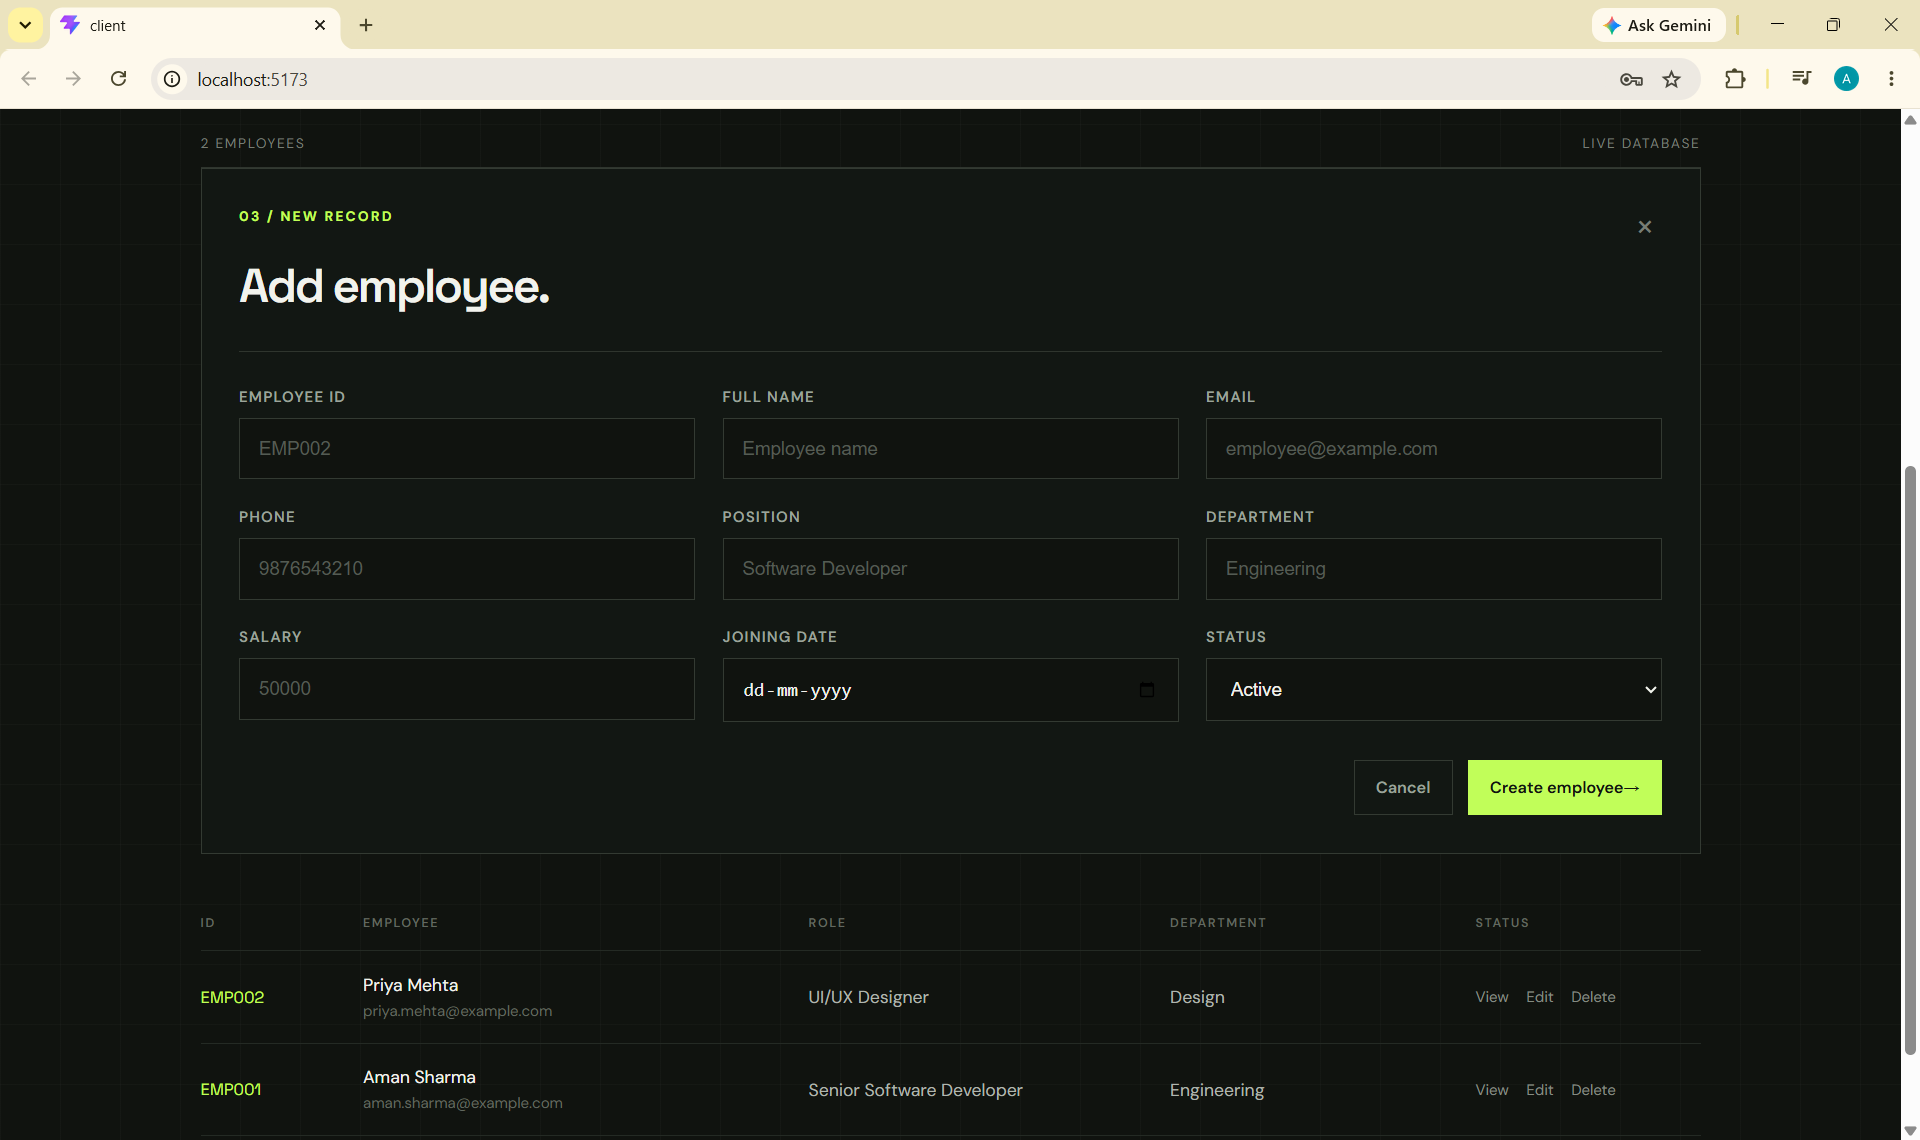
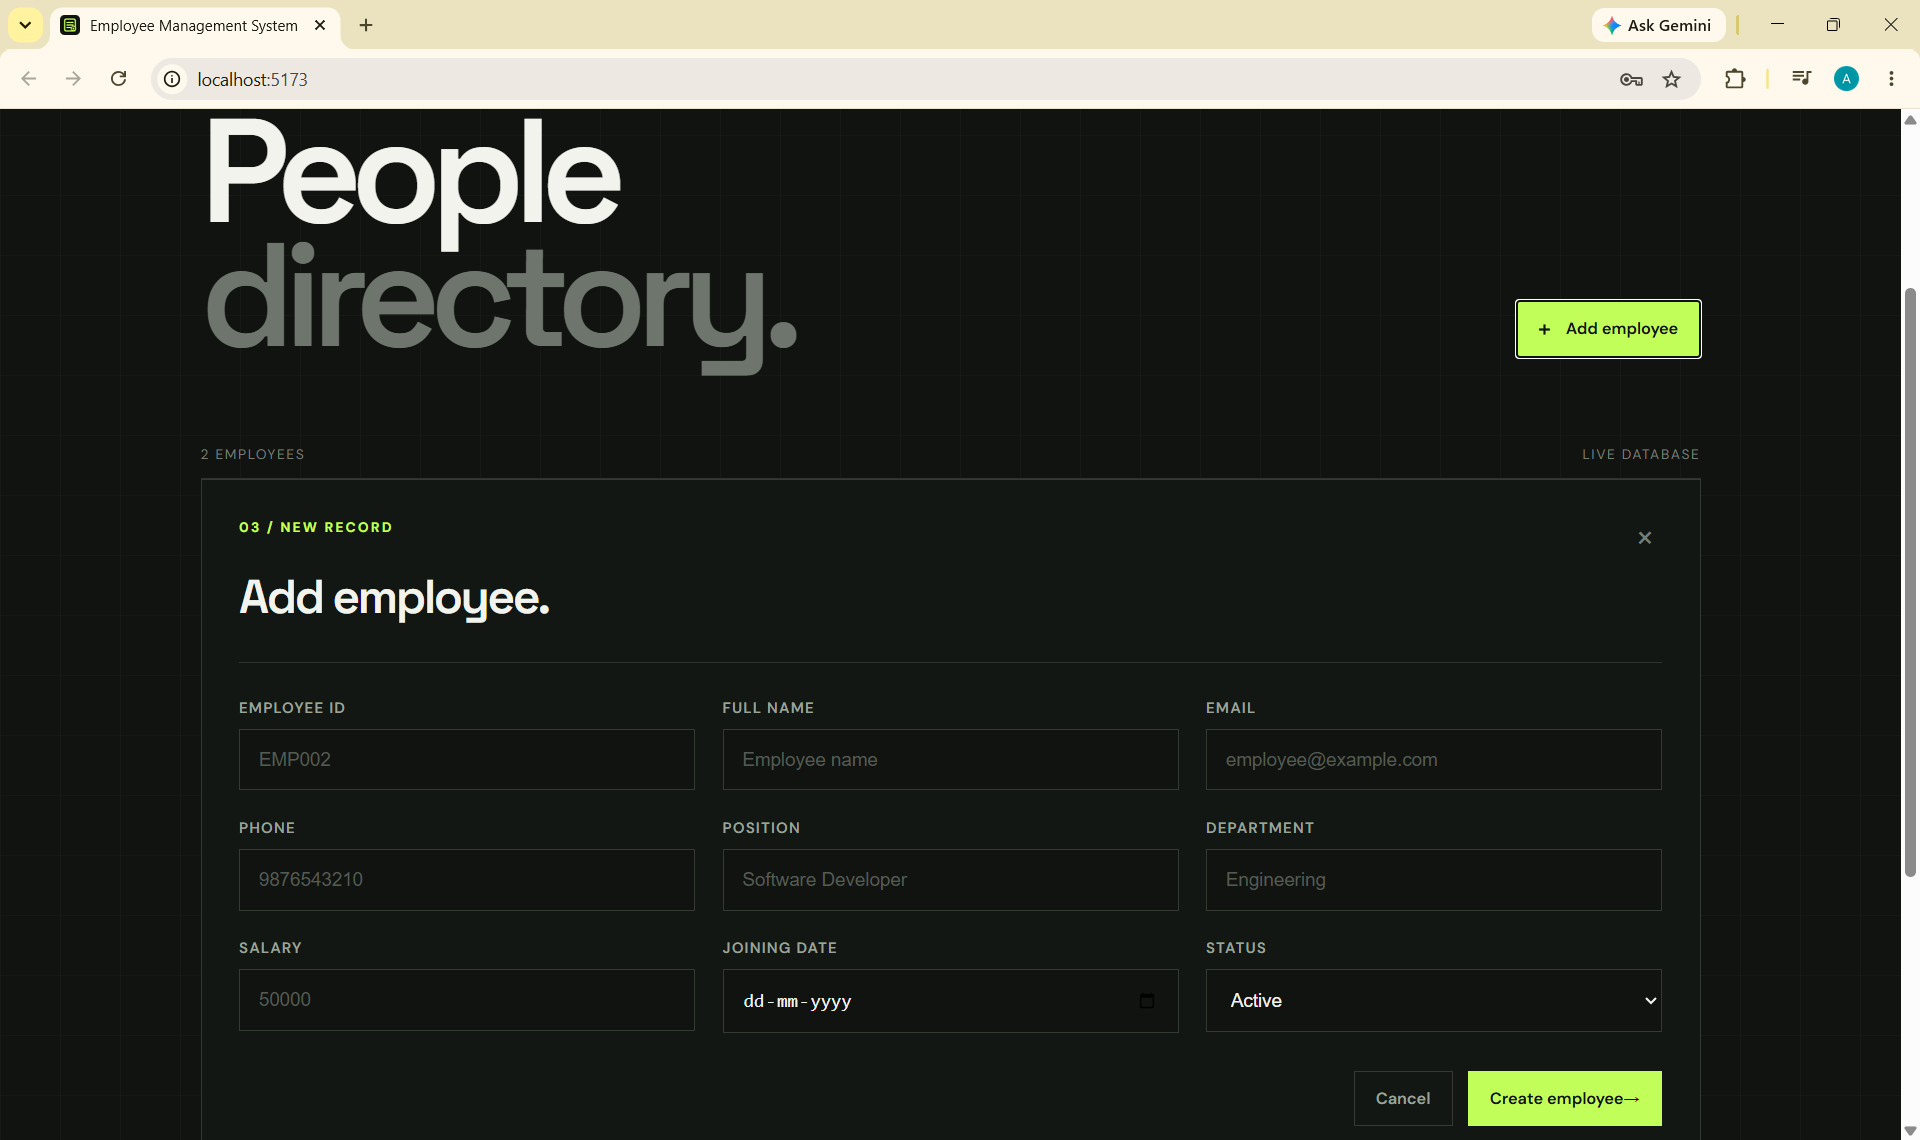
Finalize project branding and documentation

diff --git a/client/index.html b/client/index.html
@@ -2,10 +2,15 @@
 <html lang="en">
   <head>
     <meta charset="UTF-8" />
-    <link rel="icon" type="image/svg+xml" href="/favicon.svg" />
     <meta name="viewport" content="width=device-width, initial-scale=1.0" />
-    <title>client</title>
+
+    <title>Employee Management System</title>
+
+    <link rel="icon" type="image/svg+xml" href="/ems-icon.svg" />
+    <link rel="apple-touch-icon" href="/ems-icon.svg" />
+    <meta name="theme-color" content="#101510" />
   </head>
+
   <body>
     <div id="root"></div>
     <script type="module" src="/src/main.jsx"></script>
